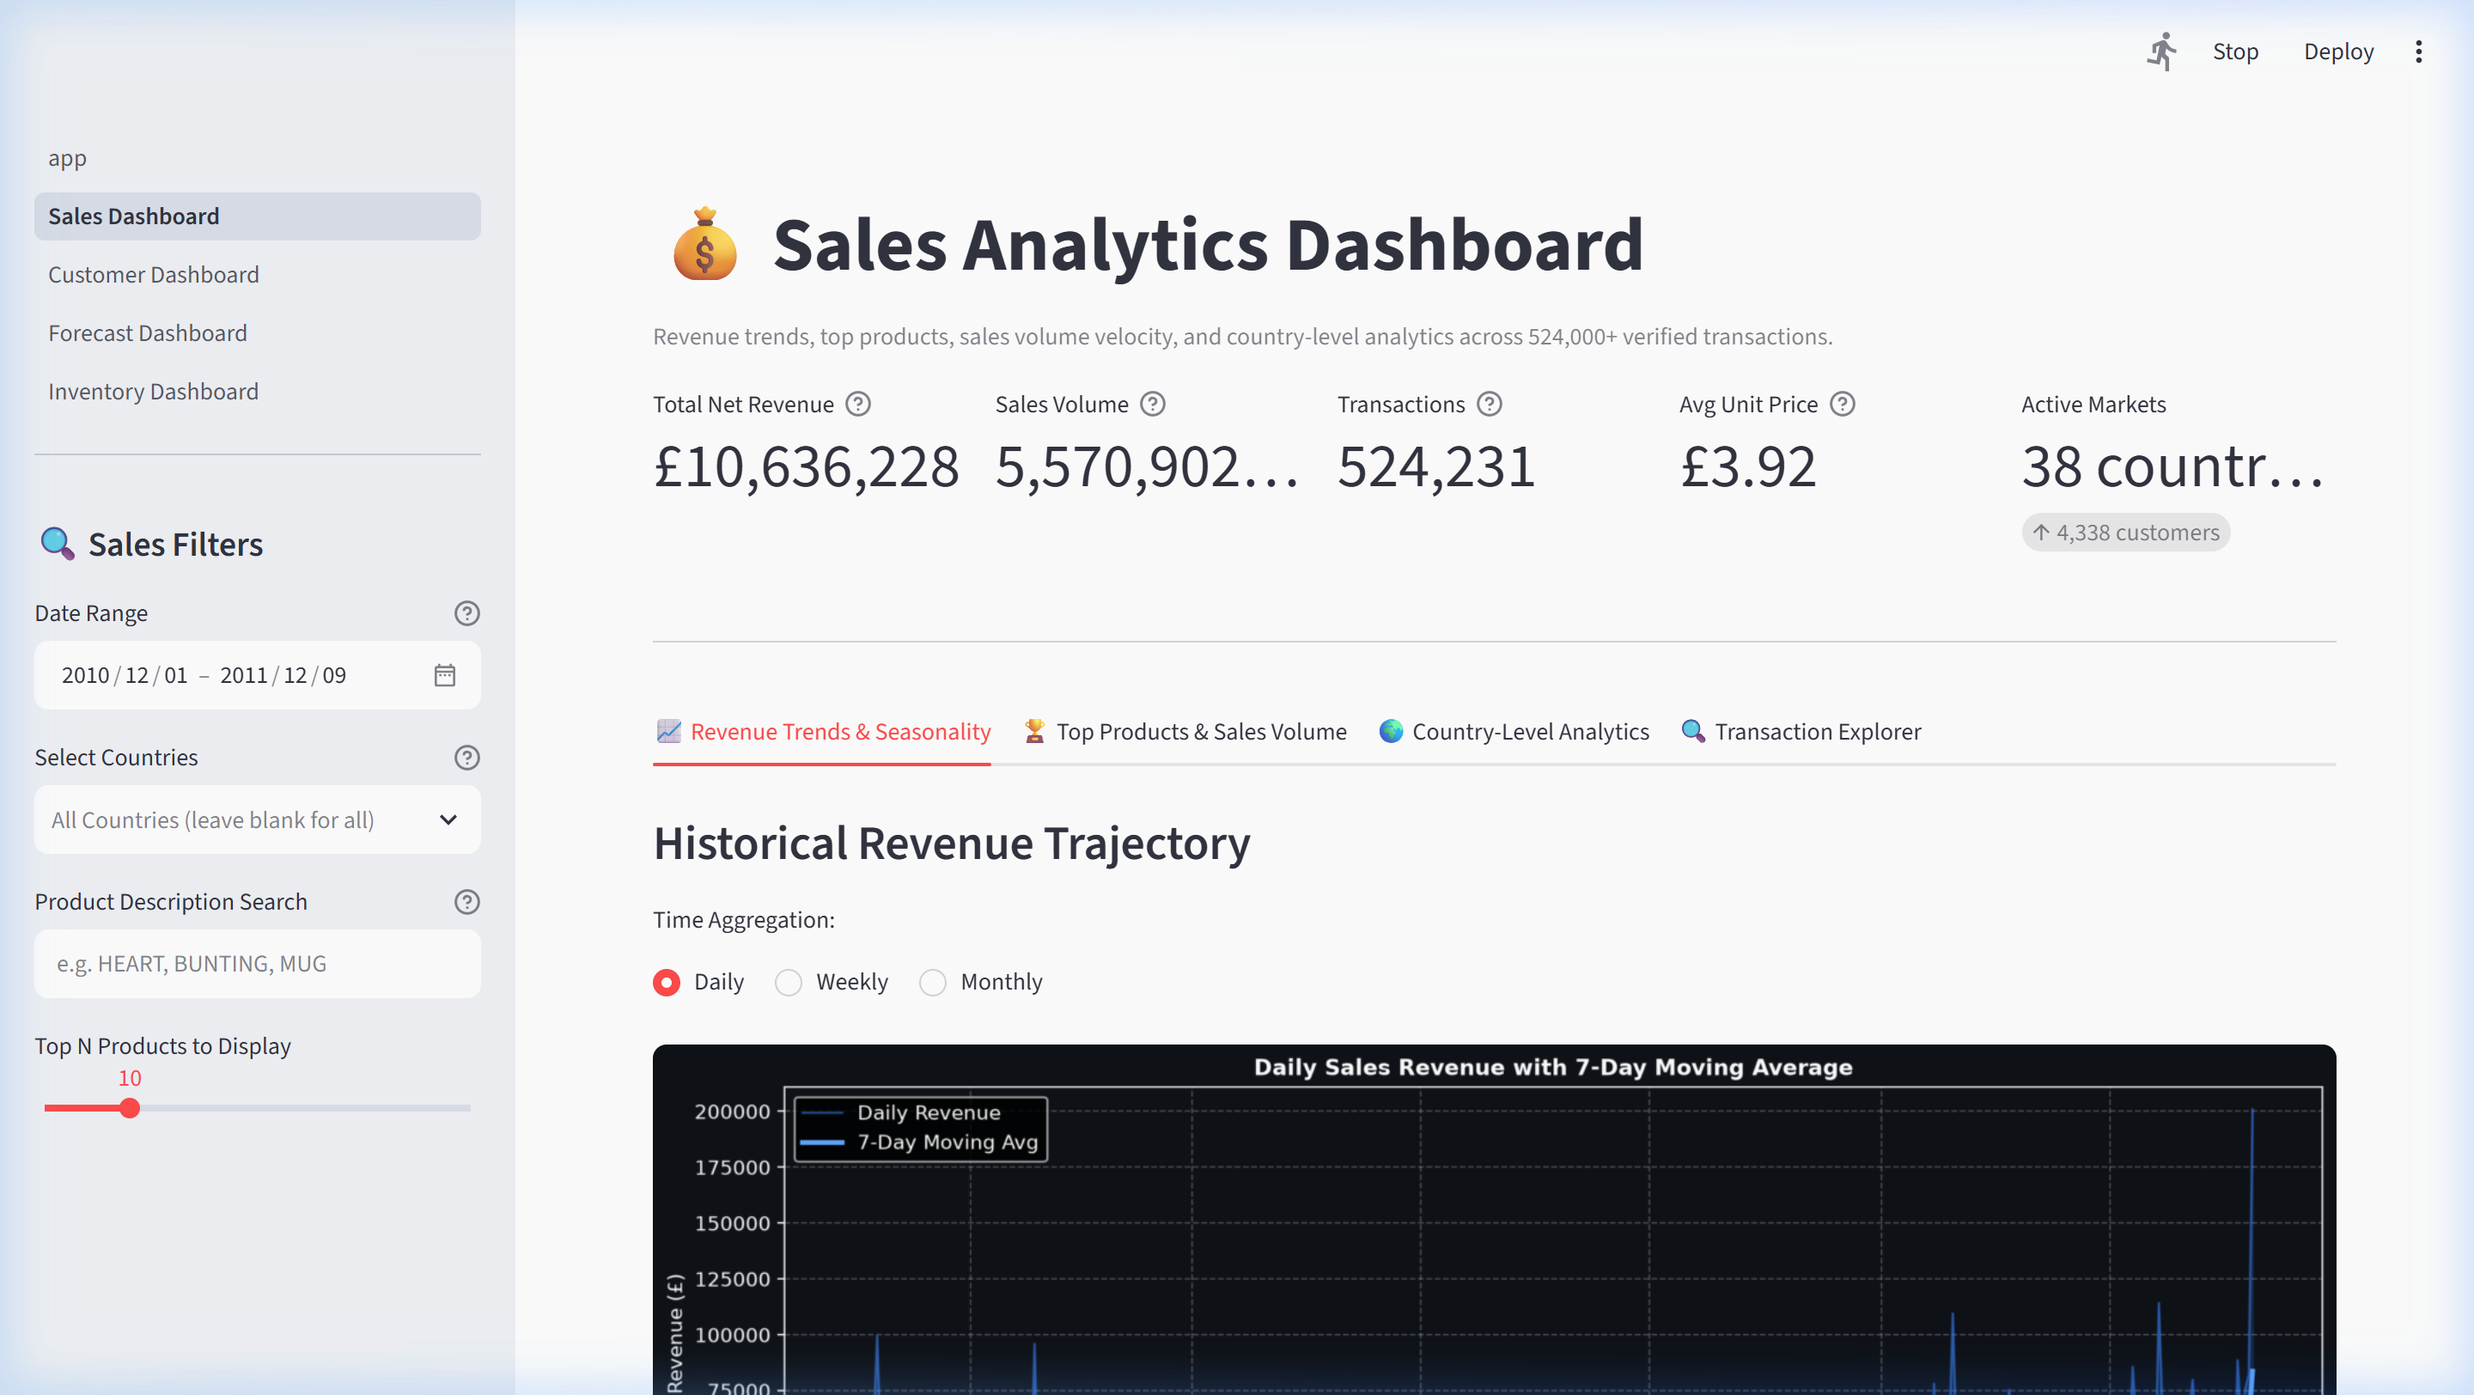
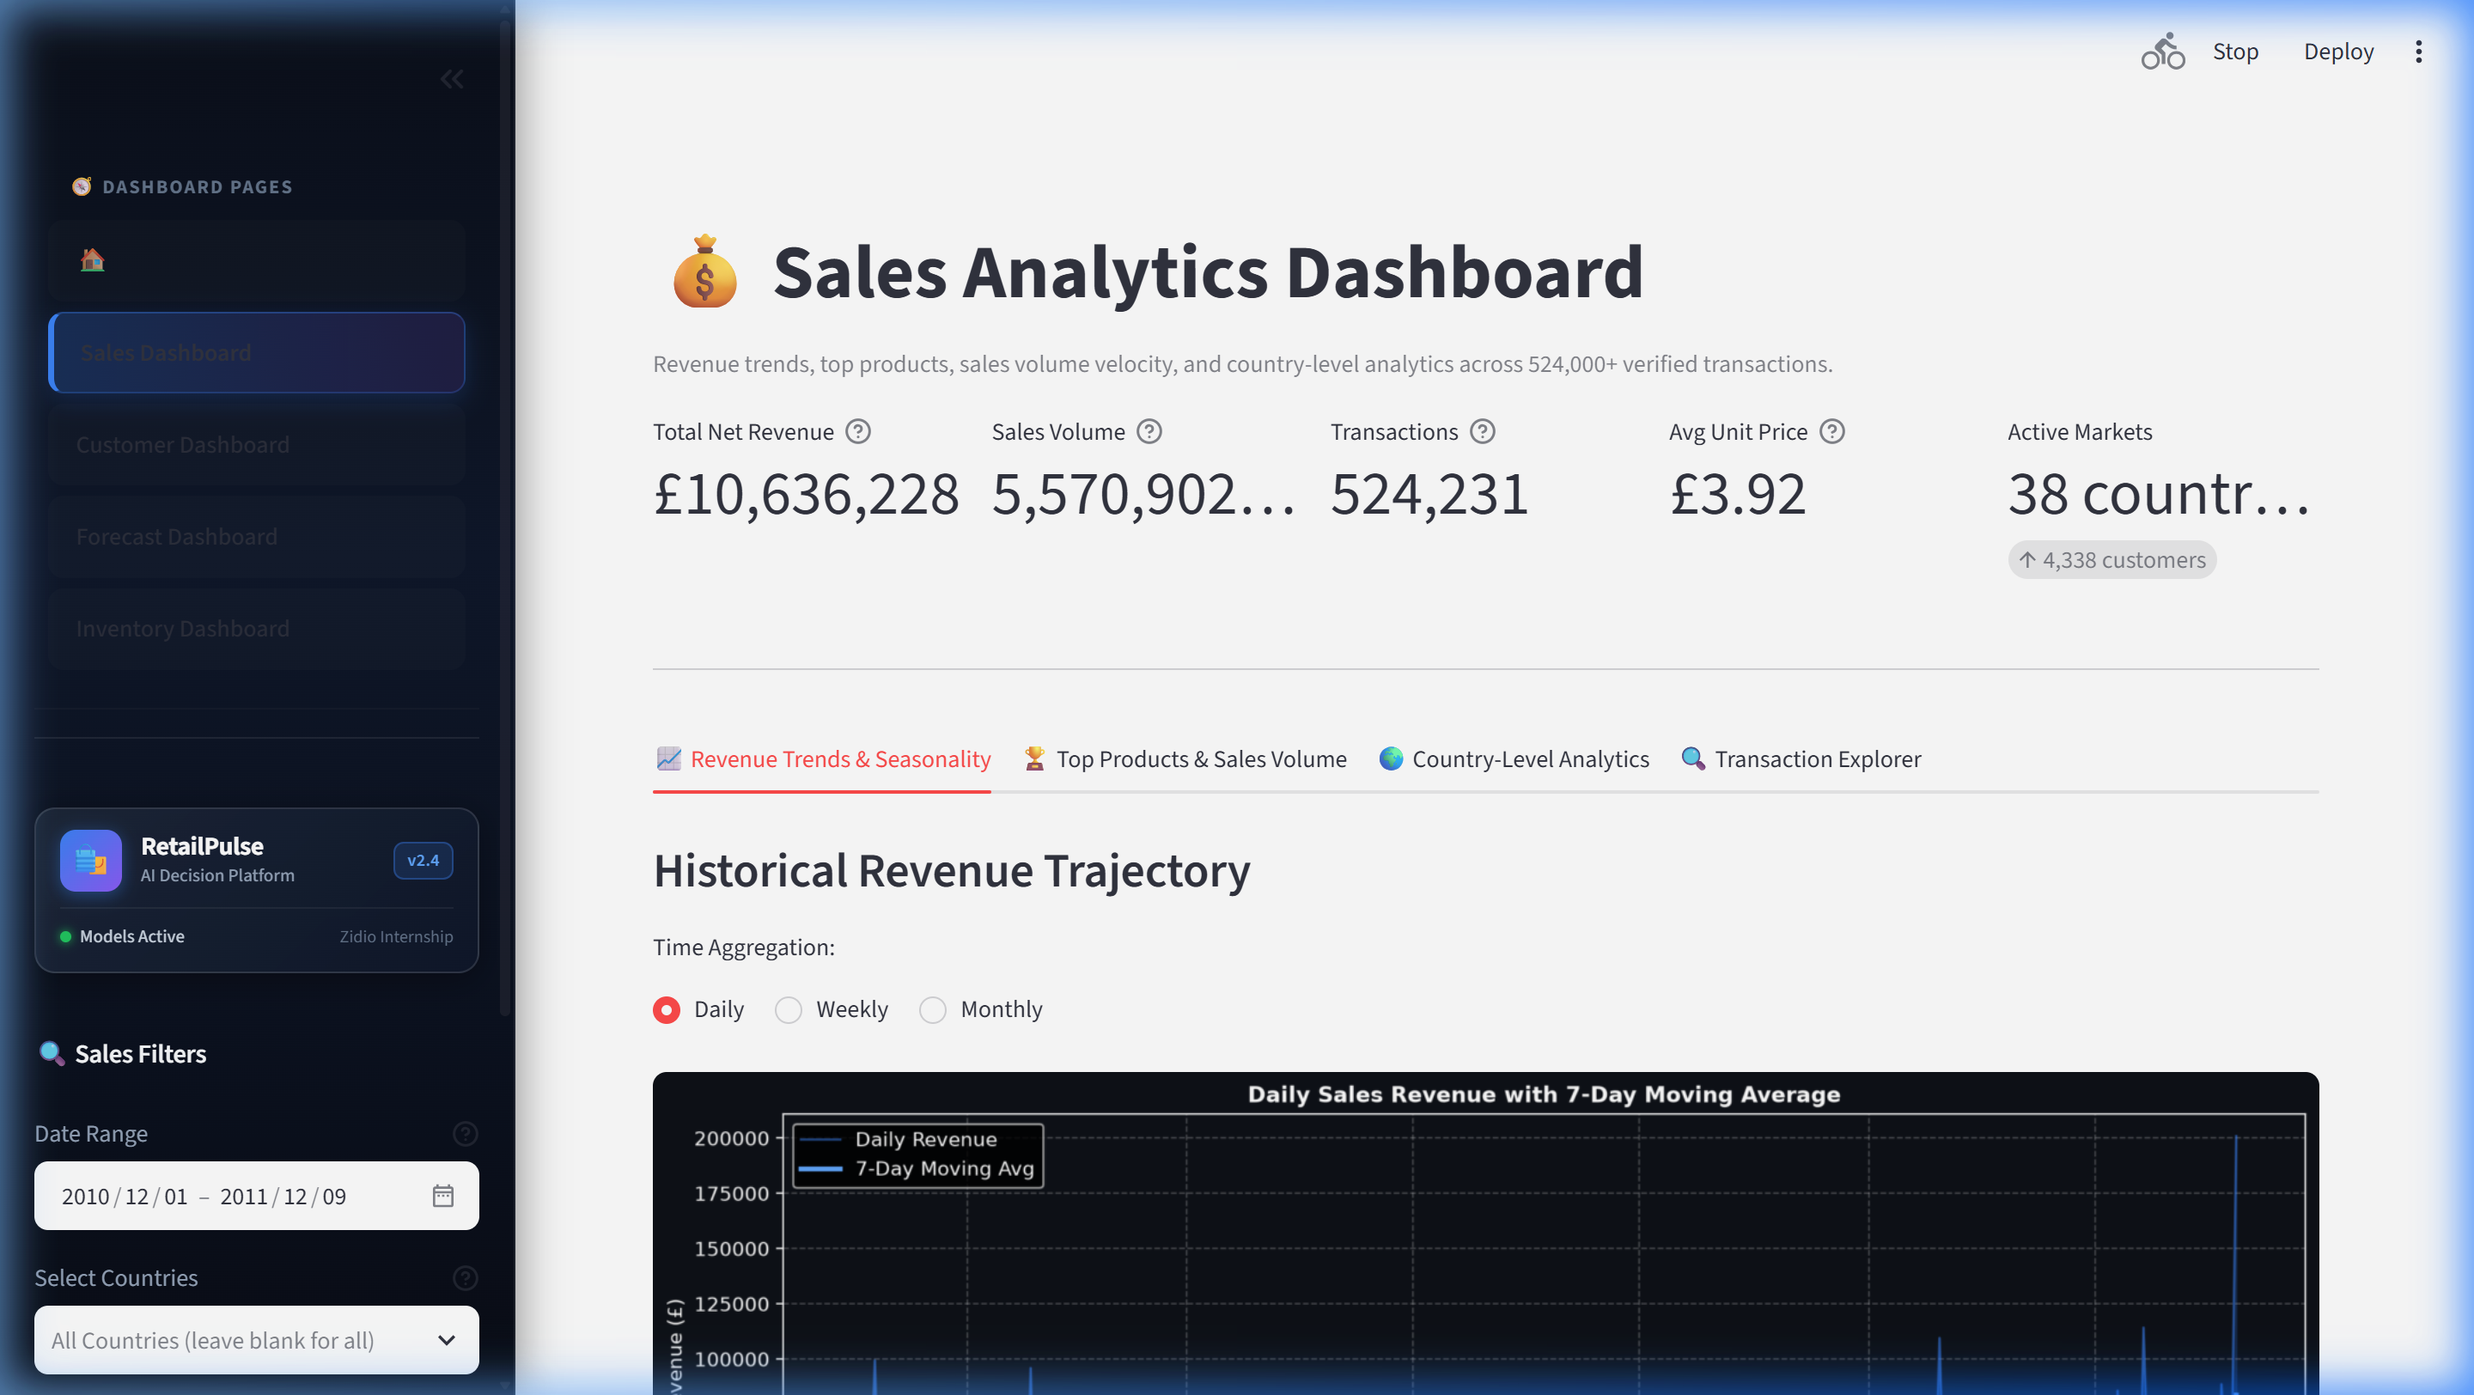
style(sidebar): add brand header card, telemetry footer, and modern dark navigation theme

diff --git a/dashboard/sidebar_theme.py b/dashboard/sidebar_theme.py
@@ -1,0 +1,257 @@
+"""
+sidebar_theme.py
+----------------
+Shared sidebar styling, brand banner, and theme injection for RetailPulse.
+Provides premium modern dark aesthetics, customized navigation buttons,
+status pill, and styled filter controls across all dashboard pages.
+"""
+
+import streamlit as st
+
+SIDEBAR_CSS = """
+<style>
+/* -------------------------------------------------------------------------
+   RetailPulse Executive Sidebar Theme
+   ------------------------------------------------------------------------- */
+
+/* Overall Sidebar Container */
+section[data-testid="stSidebar"] {
+    background: linear-gradient(180deg, #0b0f19 0%, #0f172a 40%, #090d16 100%) !important;
+    border-right: 1px solid rgba(255, 255, 255, 0.08) !important;
+    box-shadow: 4px 0 24px rgba(0, 0, 0, 0.35) !important;
+}
+
+section[data-testid="stSidebar"] > div:first-child {
+    padding-top: 1rem !important;
+    padding-bottom: 2rem !important;
+}
+
+/* Sidebar Navigation Container */
+[data-testid="stSidebarNav"] {
+    padding: 0.5rem 0 1rem 0 !important;
+    border-bottom: 1px solid rgba(255, 255, 255, 0.08) !important;
+    margin-bottom: 1rem !important;
+}
+
+/* Category header before navigation items */
+[data-testid="stSidebarNav"]::before {
+    content: "🧭 DASHBOARD PAGES";
+    display: block;
+    font-size: 0.70rem;
+    font-weight: 700;
+    letter-spacing: 0.09em;
+    color: #64748b;
+    margin-left: 1.25rem;
+    margin-bottom: 0.5rem;
+}
+
+/* Navigation List & Items */
+[data-testid="stSidebarNav"] ul {
+    gap: 0.3rem !important;
+    padding-left: 0.5rem !important;
+    padding-right: 0.5rem !important;
+}
+
+[data-testid="stSidebarNav"] li a {
+    border-radius: 9px !important;
+    padding: 0.55rem 0.95rem !important;
+    font-size: 0.88rem !important;
+    font-weight: 500 !important;
+    color: #cbd5e1 !important;
+    transition: all 0.22s cubic-bezier(0.4, 0, 0.2, 1) !important;
+    border: 1px solid transparent !important;
+    background: rgba(255, 255, 255, 0.015) !important;
+    display: flex !important;
+    align-items: center !important;
+}
+
+/* Replace default 'app' text label with '🏠 Executive Overview' */
+[data-testid="stSidebarNav"] li:first-child a span {
+    visibility: hidden;
+    position: relative;
+}
+[data-testid="stSidebarNav"] li:first-child a span::after {
+    visibility: visible;
+    position: absolute;
+    left: 0;
+    top: 0;
+    content: "🏠 Executive Overview";
+    font-weight: 600;
+    color: inherit;
+}
+
+/* Hover state for nav links */
+[data-testid="stSidebarNav"] li a:hover {
+    background: rgba(255, 255, 255, 0.07) !important;
+    color: #ffffff !important;
+    transform: translateX(4px) !important;
+    border: 1px solid rgba(255, 255, 255, 0.12) !important;
+    box-shadow: 0 2px 10px rgba(0, 0, 0, 0.25) !important;
+}
+
+/* Active Page Highlight */
+[data-testid="stSidebarNav"] li a[aria-current="page"],
+[data-testid="stSidebarNav"] li a.st-emotion-cache-1yak103 {
+    background: linear-gradient(90deg, rgba(59, 130, 246, 0.24) 0%, rgba(139, 92, 246, 0.15) 100%) !important;
+    color: #ffffff !important;
+    font-weight: 600 !important;
+    border-left: 3.5px solid #3b82f6 !important;
+    border-top: 1px solid rgba(59, 130, 246, 0.35) !important;
+    border-right: 1px solid rgba(59, 130, 246, 0.25) !important;
+    border-bottom: 1px solid rgba(59, 130, 246, 0.25) !important;
+    box-shadow: 0 4px 14px rgba(59, 130, 246, 0.2) !important;
+}
+
+/* Sidebar Headings */
+section[data-testid="stSidebar"] h1,
+section[data-testid="stSidebar"] h2,
+section[data-testid="stSidebar"] h3 {
+    color: #f8fafc !important;
+    font-size: 0.95rem !important;
+    font-weight: 600 !important;
+    letter-spacing: -0.01em !important;
+    margin-top: 0.6rem !important;
+    margin-bottom: 0.6rem !important;
+    display: flex !important;
+    align-items: center !important;
+    gap: 0.4rem !important;
+}
+
+/* Control labels & inputs */
+section[data-testid="stSidebar"] label {
+    font-size: 0.80rem !important;
+    font-weight: 500 !important;
+    color: #94a3b8 !important;
+}
+
+section[data-testid="stSidebar"] div[data-baseweb="select"],
+section[data-testid="stSidebar"] div[data-baseweb="input"] {
+    border-radius: 8px !important;
+    border: 1px solid rgba(255, 255, 255, 0.1) !important;
+    background-color: rgba(15, 23, 42, 0.75) !important;
+    transition: border-color 0.2s ease !important;
+}
+
+section[data-testid="stSidebar"] div[data-baseweb="select"]:hover,
+section[data-testid="stSidebar"] div[data-baseweb="input"]:hover {
+    border-color: rgba(59, 130, 246, 0.4) !important;
+}
+
+/* Sliders */
+section[data-testid="stSidebar"] div[data-testid="stSlider"] {
+    padding-top: 2px !important;
+    padding-bottom: 6px !important;
+}
+
+/* Styled expanders in sidebar */
+section[data-testid="stSidebar"] div[data-testid="stExpander"] {
+    border: 1px solid rgba(255, 255, 255, 0.08) !important;
+    border-radius: 8px !important;
+    background: rgba(15, 23, 42, 0.4) !important;
+}
+
+/* Custom scrollbar */
+section[data-testid="stSidebar"]::-webkit-scrollbar {
+    width: 5px;
+}
+section[data-testid="stSidebar"]::-webkit-scrollbar-track {
+    background: transparent;
+}
+section[data-testid="stSidebar"]::-webkit-scrollbar-thumb {
+    background: rgba(255, 255, 255, 0.15);
+    border-radius: 4px;
+}
+section[data-testid="stSidebar"]::-webkit-scrollbar-thumb:hover {
+    background: rgba(255, 255, 255, 0.25);
+}
+</style>
+"""
+
+
+def apply_sidebar_theme():
+    """Injects premium styling and brand card into the Streamlit sidebar."""
+    # Inject CSS
+    st.markdown(SIDEBAR_CSS, unsafe_allow_html=True)
+    
+    # Render Brand Header Card at the top of the sidebar
+    st.sidebar.markdown("""
+    <div style="
+        background: linear-gradient(135deg, rgba(30, 41, 59, 0.85) 0%, rgba(15, 23, 42, 0.95) 100%);
+        border: 1px solid rgba(255, 255, 255, 0.12);
+        border-radius: 12px;
+        padding: 12px 14px;
+        margin-bottom: 12px;
+        box-shadow: 0 4px 18px rgba(0, 0, 0, 0.35);
+        backdrop-filter: blur(10px);
+    ">
+        <div style="display: flex; align-items: center; gap: 11px;">
+            <div style="
+                width: 36px;
+                height: 36px;
+                background: linear-gradient(135deg, #3b82f6 0%, #8b5cf6 100%);
+                border-radius: 9px;
+                display: flex;
+                align-items: center;
+                justify-content: center;
+                font-size: 18px;
+                box-shadow: 0 2px 10px rgba(59, 130, 246, 0.45);
+            ">🛍</div>
+            <div style="flex-grow: 1;">
+                <div style="font-weight: 700; font-size: 15px; color: #ffffff; letter-spacing: -0.02em; line-height: 1.2;">RetailPulse</div>
+                <div style="font-size: 10.5px; color: #94a3b8; font-weight: 500;">AI Decision Platform</div>
+            </div>
+            <span style="
+                background: rgba(59, 130, 246, 0.16);
+                color: #60a5fa;
+                padding: 2px 7px;
+                border-radius: 6px;
+                font-weight: 600;
+                font-size: 10px;
+                border: 1px solid rgba(59, 130, 246, 0.35);
+                letter-spacing: 0.02em;
+            ">v2.4</span>
+        </div>
+        <div style="
+            display: flex;
+            align-items: center;
+            justify-content: space-between;
+            margin-top: 9px;
+            padding-top: 8px;
+            border-top: 1px solid rgba(255, 255, 255, 0.06);
+            font-size: 10.5px;
+        ">
+            <div style="display: flex; align-items: center; gap: 5px;">
+                <span style="width: 6.5px; height: 6.5px; background: #22c55e; border-radius: 50%; display: inline-block; box-shadow: 0 0 6px #22c55e;"></span>
+                <span style="color: #cbd5e1; font-weight: 500;">Models Active</span>
+            </div>
+            <span style="color: #64748b; font-size: 10px;">Zidio Internship</span>
+        </div>
+    </div>
+    """, unsafe_allow_html=True)
+
+
+def render_sidebar_footer():
+    """Renders a sleek system telemetry card at the bottom of the sidebar."""
+    st.sidebar.markdown("""
+    <div style="
+        margin-top: 22px;
+        padding: 11px 13px;
+        background: rgba(15, 23, 42, 0.55);
+        border: 1px solid rgba(255, 255, 255, 0.07);
+        border-radius: 10px;
+        font-size: 10.5px;
+    ">
+        <div style="color: #94a3b8; font-weight: 700; font-size: 10px; letter-spacing: 0.06em; margin-bottom: 6px; display: flex; align-items: center; justify-content: space-between;">
+            <span>SYSTEM METRICS</span>
+            <span style="color: #38bdf8; font-weight: 600;">HEALTHY</span>
+        </div>
+        <div style="color: #64748b; line-height: 1.55;">
+            <div>📦 524,231 Transactions</div>
+            <div>👥 4,338 Customer Cohorts</div>
+            <div>⚡ Prophet + XGBoost + SHAP</div>
+        </div>
+        <div style="margin-top: 7px; padding-top: 7px; border-top: 1px solid rgba(255, 255, 255, 0.06); color: #475569; font-size: 9.5px; text-align: center;">
+            RetailPulse Analytics Engine
+        </div>
+    </div>
+    """, unsafe_allow_html=True)

diff --git a/dashboard/pages/2_Customer_Dashboard.py b/dashboard/pages/2_Customer_Dashboard.py
@@ -24,8 +24,11 @@ import streamlit as st
 
 plt.style.use("dark_background")
 
-# Path setup: dashboard/pages -> dashboard -> RetailPulse root
+import sys
 ROOT = Path(__file__).resolve().parents[2]
+sys.path.insert(0, str(ROOT / "dashboard"))
+from sidebar_theme import apply_sidebar_theme, render_sidebar_footer
+
 DATA_DIR = ROOT / "data" / "processed"
 SEGMENT_REPORT_DIR = ROOT / "reports" / "segmentation"
 CHURN_REPORT_DIR = ROOT / "reports" / "churn"
@@ -48,6 +51,8 @@ st.set_page_config(
     page_icon="👥",
     layout="wide",
 )
+
+apply_sidebar_theme()
 
 st.title("👥 Customer Intelligence & Churn Dashboard")
 st.caption(
@@ -552,3 +557,5 @@ with tab_lookup:
                         st.success("✅ **Recommended Action:** Loyal and engaged customer. Focus on cross-selling, loyalty rewards, and product launches.")
                 else:
                     st.info(f"Customer {int(cid)} was not in the 25% held-out test partition for churn scoring.")
+
+render_sidebar_footer()

diff --git a/dashboard/pages/4_Inventory_Dashboard.py b/dashboard/pages/4_Inventory_Dashboard.py
@@ -20,8 +20,11 @@ import matplotlib.pyplot as plt
 
 plt.style.use("dark_background")
 
-# Path setup: dashboard/pages -> dashboard -> RetailPulse root
+import sys
 ROOT = Path(__file__).resolve().parents[2]
+sys.path.insert(0, str(ROOT / "dashboard"))
+from sidebar_theme import apply_sidebar_theme, render_sidebar_footer
+
 DATA_DIR = ROOT / "data" / "processed"
 RECOMMENDATIONS_FILE = DATA_DIR / "inventory_recommendations.csv"
 FORECAST_FILE = DATA_DIR / "forecast_30_day.csv"
@@ -32,6 +35,8 @@ st.set_page_config(
     page_icon="📦",
     layout="wide",
 )
+
+apply_sidebar_theme()
 
 st.title("📦 Inventory Optimization & Replenishment")
 st.caption(
@@ -385,3 +390,5 @@ with tab5:
 
     st.markdown("---")
     st.caption("RetailPulse Decision Engine • Module 4 of 4: Inventory Replenishment")
+
+render_sidebar_footer()

diff --git a/dashboard/app.py b/dashboard/app.py
@@ -10,7 +10,11 @@ import json
 import pandas as pd
 import streamlit as st
 
+import sys
 ROOT = Path(__file__).resolve().parents[1]
+sys.path.insert(0, str(ROOT / "dashboard"))
+from sidebar_theme import apply_sidebar_theme, render_sidebar_footer
+
 DATA_DIR = ROOT / "data" / "processed"
 REPORT_DIR = ROOT / "reports" / "churn"
 
@@ -20,6 +24,8 @@ st.set_page_config(
     layout="wide",
     initial_sidebar_state="expanded",
 )
+
+apply_sidebar_theme()
 
 st.title("🛍 RetailPulse — AI-Powered Retail Analytics Platform")
 st.caption(
@@ -175,3 +181,5 @@ st.markdown("""
   ROC-AUC 0.7422 — the assignment target of 0.88 has **not yet been demonstrated**. 
   Results should not be interpreted as live campaign recommendations for current customers.
 """)
+
+render_sidebar_footer()

diff --git a/dashboard/pages/3_Forecast_Dashboard.py b/dashboard/pages/3_Forecast_Dashboard.py
@@ -18,8 +18,11 @@ import matplotlib.pyplot as plt
 
 plt.style.use("dark_background")
 
-# Path setup: dashboard/pages -> dashboard -> RetailPulse root
+import sys
 ROOT = Path(__file__).resolve().parents[2]
+sys.path.insert(0, str(ROOT / "dashboard"))
+from sidebar_theme import apply_sidebar_theme, render_sidebar_footer
+
 DATA_DIR = ROOT / "data" / "processed"
 REPORT_DIR = ROOT / "reports" / "forecasting"
 
@@ -35,6 +38,8 @@ st.set_page_config(
     page_icon="📈",
     layout="wide",
 )
+
+apply_sidebar_theme()
 
 st.title("📈 Demand Forecast Dashboard")
 st.caption(
@@ -218,3 +223,5 @@ with tab4:
         st.dataframe(diag_df, use_container_width=True)
     else:
         st.info("Diagnostics summary generated during pipeline execution.")
+
+render_sidebar_footer()

diff --git a/dashboard/pages/1_Sales_Dashboard.py b/dashboard/pages/1_Sales_Dashboard.py
@@ -20,8 +20,11 @@ import matplotlib.pyplot as plt
 
 plt.style.use("dark_background")
 
-# Path setup: dashboard/pages -> dashboard -> RetailPulse root
+import sys
 ROOT = Path(__file__).resolve().parents[2]
+sys.path.insert(0, str(ROOT / "dashboard"))
+from sidebar_theme import apply_sidebar_theme, render_sidebar_footer
+
 DATA_DIR = ROOT / "data" / "processed"
 TRANSACTIONS_FILE = DATA_DIR / "transactions_clean.csv"
 
@@ -30,6 +33,8 @@ st.set_page_config(
     page_icon="💰",
     layout="wide",
 )
+
+apply_sidebar_theme()
 
 st.title("💰 Sales Analytics Dashboard")
 st.caption(
@@ -530,3 +535,5 @@ with tab4:
         mime="text/csv",
         help="Export top filtered transactions as CSV",
     )
+
+render_sidebar_footer()
